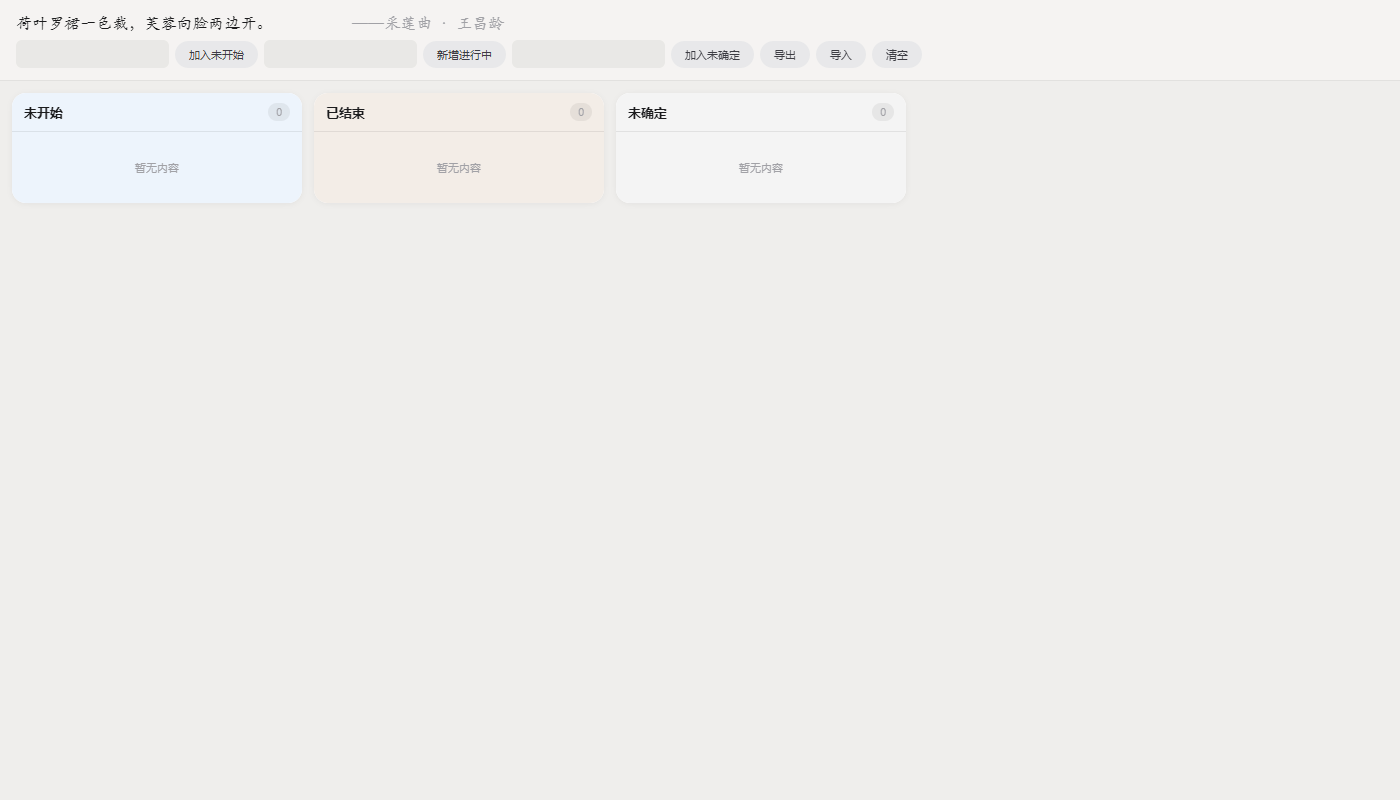
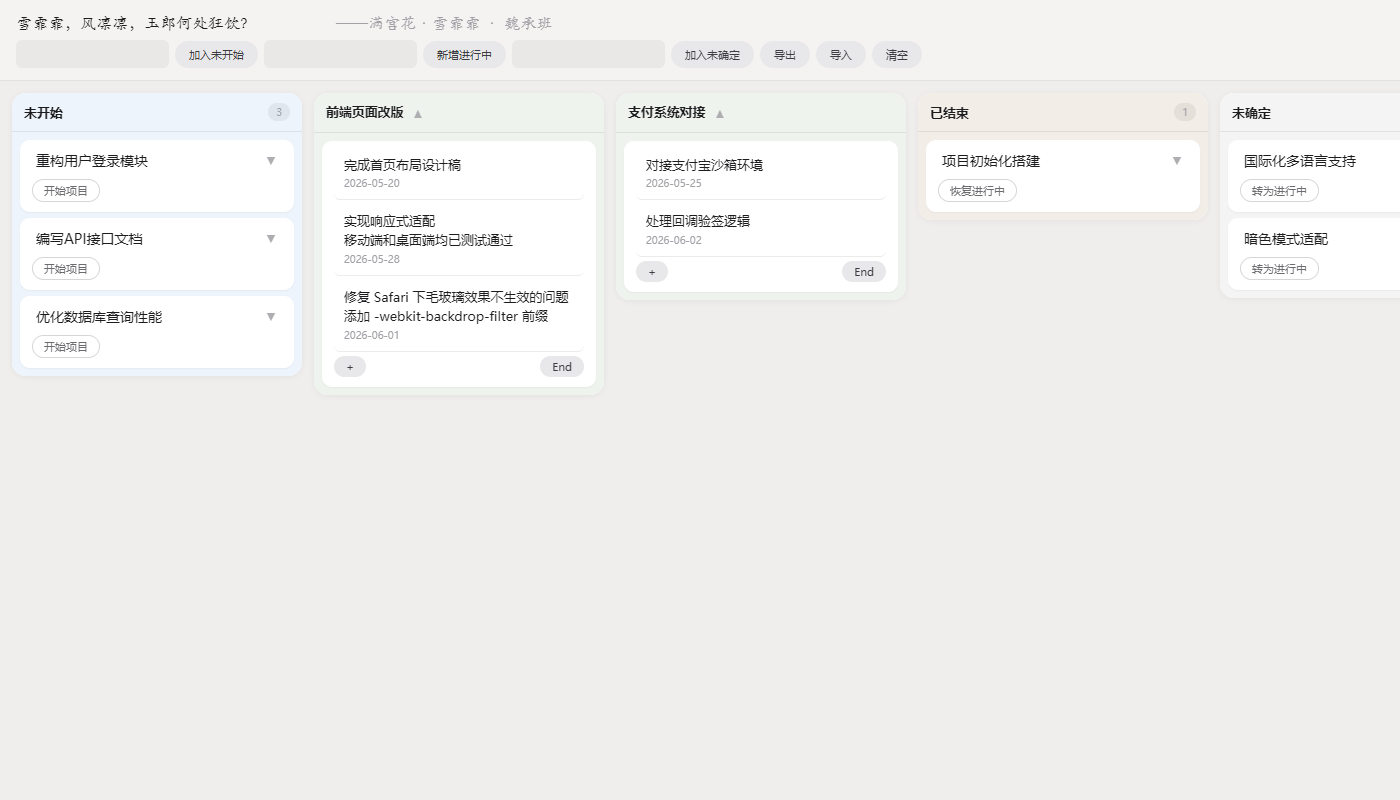
Clean up: remove npm files, update preview with demo data

diff --git a/README.md b/README.md
@@ -1,7 +1,5 @@
 # Project Manager
 
-一个轻量级的本地项目管理工具，支持莫兰迪色系和暗色模式。
-
 ![Preview](preview.png)
 
 ## 功能